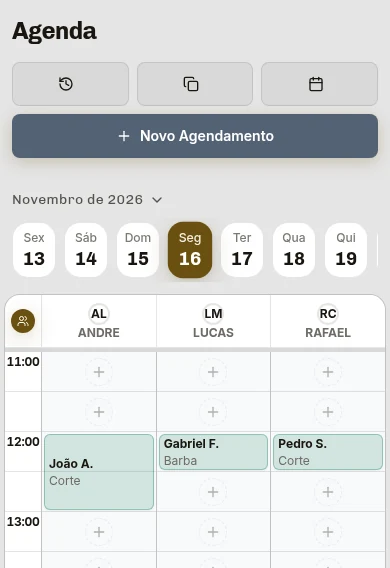
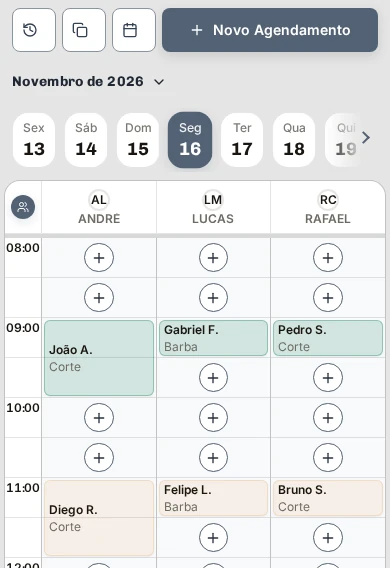
polimento visual r2: benefícios, casca da demo, hierarquia e contraste
A crítica independente ficou em landing 8/10 e demo 8,5/10, ainda abaixo do corte de publicação na landing. O PR permanece em rascunho.

diff --git a/styles/demo.css b/styles/demo.css
@@ -1,4 +1,15 @@
 .demo-shell { --demo-accent:#536174; min-height:100svh; background:var(--color-bg); color:var(--color-text); }
+html[data-theme=barber] .demo-shell {
+ --color-accent:#536174;
+ --color-accent-hover:#425064;
+ --color-accent-dim:rgba(83,97,116,.12);
+ --color-accent-border:rgba(83,97,116,.4);
+ --color-on-accent:#fff;
+ --color-input-focus:#536174;
+ --color-focus-ring:#536174;
+ --shadow-card-accent:0 3px 10px rgba(83,97,116,.16);
+ --shadow-btn-primary:0 4px 12px rgba(32,40,51,.14);
+}
 .demo-header { display:flex; align-items:center; gap:16px; padding:12px max(24px,calc((100vw - 1320px)/2)); border-bottom:1px solid var(--color-border); flex-wrap:wrap; }
 .demo-brand { font:900 27px Chivo,sans-serif; letter-spacing:-.04em; }
 .demo-badge { font-size:12px; border:1px solid var(--color-border); padding:5px 9px; border-radius:6px; }
@@ -12,8 +23,17 @@ html[data-mode=light] .demo-niches a[aria-current],html[data-mode=light] .demo-n
 .demo-toolbar span { display:block; color:var(--color-text-secondary); font-size:13px; margin-top:5px; }
 .demo-toolbar .demo-badge { display:inline-block; margin:4px 0 0; font-size:12px; line-height:1; }
 .demo-toolbar button,.demo-tour button { border:1px solid var(--color-border); }
-.demo-nav { display:flex; gap:4px; overflow-x:auto; max-width:1320px; margin:auto; padding:0 24px 16px; border-bottom:1px solid var(--color-border); }
-.demo-nav-wrap { position:relative; max-width:1320px; margin:auto; }
+.demo-nav { display:flex; min-width:0; flex:1; gap:4px; overflow-x:auto; max-width:1320px; margin:auto; padding:0 24px 16px; border-bottom:1px solid var(--color-border); }
+.demo-nav-wrap { position:relative; display:flex; align-items:flex-start; max-width:1320px; margin:auto; border-bottom:1px solid var(--color-border); }
+.demo-nav-wrap .demo-nav { border-bottom:0; }
+.demo-nav-wrap.has-overflow::after { content:""; position:absolute; right:44px; top:0; height:44px; width:40px; pointer-events:none; background:linear-gradient(to right,transparent,var(--color-bg)); }
+.demo-nav-wrap.at-end::after { display:none; }
+.demo-nav-scroll { flex:none; width:44px; height:44px; display:flex; align-items:center; justify-content:center; background:var(--color-card); border:1px solid var(--color-border); border-radius:8px; color:var(--demo-accent); }
+.demo-content [data-testid="agenda-day-scroller"]>div:last-child::before { content:""; position:absolute; right:0; top:0; bottom:0; width:52px; z-index:1; pointer-events:none; background:linear-gradient(to right,transparent 0%,var(--color-bg) 70%); }
+.demo-content [data-testid="agenda-day-scroller"]>div:last-child::after { content:""; position:absolute; right:10px; top:25px; width:9px; height:9px; border-top:2px solid var(--demo-accent); border-right:2px solid var(--demo-accent); transform:rotate(45deg); z-index:1; pointer-events:none; }
+.demo-content [data-testid="agenda-month-trigger"],.demo-content [data-testid="agenda-hoje-chip"] { min-height:44px; color:#202833; }
+.demo-content header:has(#btn-new-appointment) button:not(#btn-new-appointment) { color:#344154; border-color:#8a93a0; background:#fff; }
+.demo-content [data-agenda-slot] > button[aria-label^="Novo agendamento"] span { opacity:1; color:#2a3340; border-color:#536174; border-width:1.5px; border-style:solid; background:#fff; width:1.85rem; height:1.85rem; }
 .demo-nav a { white-space:nowrap; }
 .demo-content { max-width:1320px; margin:auto; padding:24px; }
 .demo-content [data-testid="agenda-resource-grid"] [data-agenda-slot]:not([data-off-hours]) { background:#f8f9fa; }
@@ -29,19 +49,25 @@ html[data-mode=light] .demo-niches a[aria-current],html[data-mode=light] .demo-n
 .demo-shell a:hover,.demo-shell button:hover { filter:brightness(.9); }
 .demo-shell :focus-visible { outline:2px solid var(--demo-accent); outline-offset:3px; }
 @media(max-width:640px) {
- .demo-header { gap:6px; padding:8px 12px; }
+ .demo-header { gap:6px; padding:6px 12px; }
  .demo-brand { font-size:21px; }
  .demo-niches { margin-left:auto; }
  .demo-niches a { padding:10px 7px; font-size:12px; }
  .demo-signup { padding:12px 8px; font-size:12px; white-space:nowrap; }
- .demo-toolbar { padding:12px 16px 8px; align-items:center; }
+ .demo-toolbar { padding:6px 12px; align-items:center; }
  .demo-toolbar strong { display:inline; font-size:16px; }
  .demo-toolbar .demo-badge { margin:0 0 0 6px; padding:3px 6px; }
  .demo-toolbar span { font-size:12px; margin-top:2px; }
  .demo-toolbar button { padding:8px 10px; font-size:12px; white-space:nowrap; }
- .demo-nav { padding:0 32px 8px 16px; }
- .demo-nav-wrap::after { content:""; position:absolute; right:0; top:0; bottom:9px; width:32px; pointer-events:none; background:linear-gradient(to right,transparent,var(--color-bg)); }
- .demo-content { padding:12px; }
+ .demo-nav { padding:0 12px 4px; }
+ .demo-content { padding:8px 12px; }
+ .demo-content[data-demo-screen=agenda]>div { gap:8px; }
+ .demo-content[data-demo-screen=agenda]>div>div:first-child { padding-top:0; }
+ .demo-content[data-demo-screen=agenda]>div>div:first-child>header { gap:0; padding-bottom:0; }
+ .demo-content[data-demo-screen=agenda]>div>div:first-child>header>div:first-child { position:absolute; width:1px; height:1px; padding:0; margin:-1px; overflow:hidden; clip-path:inset(50%); white-space:nowrap; }
+ .demo-content[data-demo-screen=agenda] header:has(#btn-new-appointment)>div:last-child>div { flex-wrap:nowrap; gap:6px; }
+ .demo-content[data-demo-screen=agenda] header:has(#btn-new-appointment) button:not(#btn-new-appointment) { flex:0 0 44px; width:44px; padding:0; }
+ .demo-content #btn-new-appointment { padding-inline:10px; }
  .demo-tour { margin:12px; flex-direction:column; align-items:flex-start; gap:12px; }
  .demo-tour-actions { flex-wrap:wrap; }
 }

diff --git a/pages/Landing.tsx b/pages/Landing.tsx
@@ -42,7 +42,7 @@ export const Landing = () => {
     setMenu(false);
     document.getElementById(id)?.scrollIntoView({ behavior: window.matchMedia('(prefers-reduced-motion: reduce)').matches ? 'instant' : 'smooth' });
   };
-  return <div className="landing">
+  return <div className={`landing${sticky ? " has-mobile-cta" : ""}`}>
     <a className="landing-skip" href="#landing-main" onClick={event => { event.preventDefault(); document.getElementById('landing-main')?.focus(); }}>Pular para o conteúdo</a>
     <header className="landing-nav">
       <div className="landing-wrap wrap landing-nav-row">
@@ -86,7 +86,7 @@ export const Landing = () => {
         <div className="landing-wrap wrap">
           <h2>Do primeiro horário<br />ao fechamento do caixa.</h2>
           {features.map((feature, index) => <article className={`landing-feature feature-${index}`} key={feature.title}><div className="landing-feature-copy"><h3>{feature.title}</h3><p>{feature.text}</p><a className="landing-text-link" href={`/#/demo/barber/${feature.route}`}>Explorar {index === 0 ? 'a agenda' : index === 1 ? 'o agendamento' : 'o financeiro'} <ArrowRight size={18} aria-hidden="true" /></a></div><div className="landing-feature-shot"><picture><source media="(max-width: 760px)" srcSet={`/landing/${feature.image}-mobile.webp`} /><img src={`/landing/${feature.image}-1440.webp`} alt={feature.alt} loading="lazy" width="1440" height="790" /></picture></div></article>)}
-          <div className="landing-team"><img src="/landing/craft-800.webp" srcSet="/landing/craft-800.webp 800w, /landing/craft-1600.webp 1600w" sizes="(max-width: 760px) 100vw, 45vw" loading="lazy" width="800" height="1000" alt="Profissional trabalhando no cabelo de uma cliente, em fotografia de banco" /><div><h3>Tempo, equipe<br />e trabalho valorizados.</h3><p>Acompanhe as comissões de cada profissional e o faturamento por hora de cadeira. Para quem chega sem marcar, organize a fila em uma tela própria.</p><div className="landing-operation-tabs" role="group" aria-label="Gestão da equipe"><button aria-pressed={operation === 'performance'} onClick={() => setOperation('performance')}>Hora de cadeira</button><button aria-pressed={operation === 'team'} onClick={() => setOperation('team')}>Equipe</button><button aria-pressed={operation === 'queue'} onClick={() => setOperation('queue')}>Fila</button></div><a className="landing-team-proof" href={`/#/demo/barber/${operation === 'performance' ? 'financeiro/performance' : operation === 'team' ? 'configuracoes/equipe' : 'fila'}`}><img src={`/landing/${operation}-1440.webp`} width="1440" height="790" loading="lazy" alt={`Tela real de ${operation === 'performance' ? 'hora de cadeira' : operation === 'team' ? 'equipe e comissões' : 'fila de espera'} do AgendiX, com dados fictícios`} /></a></div></div>
+          <div className="landing-team"><img src="/landing/craft-800.webp" srcSet="/landing/craft-800.webp 800w, /landing/craft-1600.webp 1600w" sizes="(max-width: 760px) 100vw, 45vw" loading="lazy" width="800" height="1000" alt="Profissional trabalhando no cabelo de uma cliente, em fotografia de banco" /><div><h3>Tempo, equipe<br />e trabalho valorizados.</h3><p>Acompanhe as comissões de cada profissional e o faturamento por hora de cadeira. Para quem chega sem marcar, organize a fila em uma tela própria.</p></div><div className="landing-team-operation"><div className="landing-operation-tabs" role="group" aria-label="Gestão da equipe"><button aria-pressed={operation === 'performance'} onClick={() => setOperation('performance')}>Hora de cadeira</button><button aria-pressed={operation === 'team'} onClick={() => setOperation('team')}>Equipe</button><button aria-pressed={operation === 'queue'} onClick={() => setOperation('queue')}>Fila</button></div><a className="landing-team-proof" href={`/#/demo/barber/${operation === 'performance' ? 'financeiro/performance' : operation === 'team' ? 'configuracoes/equipe' : 'fila'}`}><picture><source media="(max-width: 760px)" srcSet={`/landing/${operation}-mobile.webp`} /><img src={`/landing/${operation}-1440.webp`} width={operation === 'performance' ? 1142 : 1320} height={operation === 'performance' ? 524 : 682} loading="lazy" alt={`Tela real de ${operation === 'performance' ? 'hora de cadeira' : operation === 'team' ? 'equipe e comissões' : 'fila de espera'} do AgendiX, com dados fictícios`} /></picture></a></div></div>
         </div>
       </section>
       <section className="landing-close"><div className="landing-wrap wrap"><h2>O próximo capítulo<br />do seu negócio.</h2><div><p>Você já cuida do que faz bem.<br />Comece o período de teste e organize o resto.</p><a className="landing-button landing-button-light" href="/#/register">Crie sua conta grátis <ArrowRight size={18} aria-hidden="true" /></a></div></div></section>

diff --git a/styles/landing.css b/styles/landing.css
@@ -71,8 +71,8 @@ html[data-surface=marketing] { scroll-padding-top:88px; }
 .landing-feature-copy p { margin:0 0 20px; }
 .landing-feature-shot { height:385px; overflow:hidden; border-radius:8px; background:#f3f4f5; }
 .landing-feature-shot img { width:100%; height:auto; display:block; }
-.feature-1 .landing-feature-shot { background:#f0ece5; }
-.landing-team { display:grid; grid-template-columns:5fr 6fr; gap:100px; align-items:center; padding-top:72px; border-top:1px solid var(--lp-rule); margin-top:16px; }
+.feature-1 .landing-feature-shot { background:#f3f4f5; height:auto; }
+.landing-team { display:grid; grid-template-columns:5fr 6fr; column-gap:100px; row-gap:32px; align-items:center; padding-top:72px; border-top:1px solid var(--lp-rule); margin-top:16px; }
 .landing-team>img { width:100%; height:500px; object-fit:cover; object-position:60%; }
 .landing-team h3 { margin:0 0 24px; font-size:clamp(32px,3.4vw,49px); }
 .landing-team p { margin:0 0 20px; }
@@ -80,7 +80,7 @@ html[data-surface=marketing] { scroll-padding-top:88px; }
 .landing-feature-rows a:hover { color:#536174; padding-left:6px; transition:padding .2s; }
 .landing-close { background:#536174; color:#fff; padding:84px 0; }
 .landing-close>.landing-wrap { display:grid; grid-template-columns:1.4fr 1fr; gap:80px; align-items:center; }
-.landing-close h2 { margin:0; font-size:clamp(32px,3.4vw,49px); }
+.landing-close h2 { margin:0; font-size:clamp(26px,2.6vw,36px); font-weight:600; letter-spacing:-.02em; }
 .landing-close p { color:#fff; margin:0 0 24px; }
 .landing-button-light { background:#fff; color:#344154!important; }
 .landing-button-light:hover { background:#e7eaee; }
@@ -162,17 +162,19 @@ html[data-surface=marketing] { scroll-padding-top:88px; }
  .landing-footer-top>a:last-child { margin-left:0; }
  .landing-footer-bottom { flex-wrap:wrap; column-gap:20px; row-gap:0; }
  .landing-footer-bottom>span:first-child,.landing-footer-bottom>span:last-child { width:100%; margin:0; }
- .landing-mobile-cta { display:block; position:fixed; bottom:0; left:0; width:100%; background:#fff; border-top:1px solid var(--lp-rule); padding:12px 20px max(12px,env(safe-area-inset-bottom)); z-index:20; transform:translateY(120%); visibility:hidden; transition:transform .2s,visibility .2s; }
+ .landing-mobile-cta { display:block; position:fixed; top:72px; left:0; width:100%; background:#fff; border-bottom:1px solid var(--lp-rule); padding:10px 20px; z-index:20; transform:translateY(-120%); visibility:hidden; transition:transform .2s,visibility .2s; }
+ .landing.has-mobile-cta { scroll-padding-top:136px; }
+ .landing.has-mobile-cta .landing-features,.landing.has-mobile-cta .landing-story,.landing.has-mobile-cta .landing-demo,.landing.has-mobile-cta .landing-feature,.landing.has-mobile-cta .landing-team,.landing.has-mobile-cta .landing-team-operation { scroll-margin-top:136px; }
  .landing-mobile-cta.is-visible { transform:translateY(0); visibility:visible; }
- .landing-mobile-cta .landing-button { width:100%; }
+ .landing-mobile-cta .landing-button { width:100%; min-height:48px; }
 }
 @media(prefers-reduced-motion:reduce) { .landing * { animation:none!important; transition:none!important; scroll-behavior:auto!important; } }
 .landing-operation-tabs { display:flex; gap:16px; border-bottom:1px solid var(--lp-rule); margin:24px 0 20px; }
 .landing-operation-tabs button { font-size:13px; padding:10px 0; min-height:44px; border:0; border-bottom:2px solid transparent; background:none; color:var(--lp-muted); }
 .landing-operation-tabs button[aria-pressed=true] { border-color:#536174; color:var(--lp-ink); font-weight:600; }
-.landing-team-proof { display:block; height:240px; overflow:hidden; border-radius:6px; background:#f3f4f5; }
-.landing-team-proof img { width:100%; display:block; }
-@media(max-width:760px) { .landing-team-proof { height:230px; } .landing-team-proof img { min-width:560px; } }
+.landing-team-operation { grid-column:1 / -1; }
+.landing-team-proof { display:block; height:auto; overflow:hidden; border-radius:6px; background:#f3f4f5; }
+.landing-team-proof img { width:100%; height:auto; display:block; }
 .landing-team>div { min-width:0; width:100%; }
 @media(min-width:1201px) { .landing-hero-head { grid-template-columns:1.75fr 1fr; gap:52px; } }
 @media(max-width:760px) { .landing-team { align-items:stretch; } .landing-operation-tabs { gap:14px; } }

diff --git a/pages/Demo.tsx b/pages/Demo.tsx
@@ -1,4 +1,4 @@
-import { DemoNavigation } from '../components/DemoNavigation';
+import { DemoNavigation, DemoScreenNavigation } from '../components/DemoNavigation';
 import React, { lazy, Suspense, useEffect, useState } from 'react';
 import { Link, Route, Routes, useLocation, useNavigate } from 'react-router-dom';
 import { QueryClient, QueryClientProvider } from '@tanstack/react-query';
@@ -58,12 +58,12 @@ export const Demo = () => {
         <div><strong>{niche === 'beauty' ? 'Studio Aurora' : 'Barbearia Corte Fino'}</strong><span className="demo-badge">Simulação</span><span>Dados fictícios · reinicia ao recarregar</span></div>
         <button onClick={() => goTour(0)}>Fazer tour guiado</button>
       </div>
-      <div className="demo-nav-wrap"><nav className="demo-nav" aria-label="Telas da simulação">{screens.map(screen => <Link key={screen.path} to={`${base}/${screen.path}`} aria-current={location.pathname === `${base}/${screen.path}` ? 'page' : undefined}>{screen.label}</Link>)}</nav></div>
+      <DemoScreenNavigation locationKey={location.pathname}>{screens.map(screen => <Link key={screen.path} to={`${base}/${screen.path}`} aria-current={location.pathname === `${base}/${screen.path}` ? 'page' : undefined}>{screen.label}</Link>)}</DemoScreenNavigation>
       {tour !== null && <aside className="demo-tour" aria-label="Tour guiado" aria-live="polite">
         <div><span>Passo {tour + 1} de {screens.length}</span><h2>{screens[tour].title}</h2><p>{screens[tour].text}</p></div>
         <div className="demo-tour-actions">{tour > 0 && <button onClick={() => goTour(tour - 1)}>Anterior</button>}<button onClick={() => tour < screens.length - 1 ? goTour(tour + 1) : setTour(null)}>{tour < screens.length - 1 ? 'Próximo passo' : 'Concluir tour'}</button><button onClick={() => setTour(null)}>Fechar tour</button></div>
       </aside>}
-      <DemoNavigation><main className="demo-content" key={niche} onClickCapture={event => {
+      <DemoNavigation><main className="demo-content" data-demo-screen={screens.find(screen => location.pathname === `${base}/${screen.path}`)?.path ?? 'agenda'} key={niche} onClickCapture={event => {
         const anchor = (event.target as HTMLElement).closest('a');
         if (anchor && /wa\.me|whatsapp|mailto:/.test(anchor.href)) { event.preventDefault(); event.stopPropagation(); }
       }}>

diff --git a/components/DemoNavigation.tsx b/components/DemoNavigation.tsx
@@ -1,5 +1,6 @@
-import React, { useContext, useMemo } from 'react';
+import React, { useContext, useMemo, useEffect, useRef, useState } from 'react';
 import { UNSAFE_NavigationContext, type To } from 'react-router-dom';
+import { ChevronLeft, ChevronRight } from 'lucide-react';
 import { demoPath, getDemoNiche } from '../lib/demo/mode';
 
 export const DemoNavigation = ({ children }: { children: React.ReactNode }) => {
@@ -16,4 +17,30 @@ export const DemoNavigation = ({ children }: { children: React.ReactNode }) => {
     } };
   }, [navigation, niche]);
   return <UNSAFE_NavigationContext.Provider value={value}>{children}</UNSAFE_NavigationContext.Provider>;
+};
+
+export const DemoScreenNavigation = ({ children, locationKey }: { children: React.ReactNode; locationKey: string }) => {
+  const navRef = useRef<HTMLElement>(null);
+  const [overflow, setOverflow] = useState(false);
+  const [atEnd, setAtEnd] = useState(false);
+  useEffect(() => {
+    const nav = navRef.current;
+    if (!nav) return;
+    const update = () => {
+      setOverflow(nav.scrollWidth > nav.clientWidth + 2);
+      setAtEnd(nav.scrollLeft + nav.clientWidth >= nav.scrollWidth - 2);
+    };
+    const observer = new ResizeObserver(update);
+    observer.observe(nav);
+    nav.addEventListener('scroll', update, { passive: true });
+    update();
+    return () => { observer.disconnect(); nav.removeEventListener('scroll', update); };
+  }, [locationKey]);
+  return <div className={`demo-nav-wrap${overflow ? ' has-overflow' : ''}${atEnd ? ' at-end' : ''}`}>
+    <nav id="demo-screens" ref={navRef} className="demo-nav" aria-label="Telas da simulação">{children}</nav>
+    {overflow && <button className="demo-nav-scroll" aria-label={atEnd ? 'Ver telas anteriores' : 'Ver mais telas'} aria-controls="demo-screens" onClick={() => {
+      const nav = navRef.current;
+      if (nav) nav.scrollTo({ left: atEnd ? 0 : nav.scrollWidth, behavior: matchMedia('(prefers-reduced-motion: reduce)').matches ? 'instant' : 'smooth' });
+    }}>{atEnd ? <ChevronLeft size={20} aria-hidden="true" /> : <ChevronRight size={20} aria-hidden="true" />}</button>}
+  </div>;
 };

diff --git a/e2e/site-v2/site.spec.ts b/e2e/site-v2/site.spec.ts
@@ -32,6 +32,23 @@ for (const width of [1440, 390]) {
     await expect(page.locator('html')).toHaveAttribute('data-theme', 'barber');
     await expect(page.getByRole('heading', { name: /Agenda/i }).first()).toBeVisible();
     await expect(page.getByRole('button', { name: /Pedro Souza —/ }).first()).toBeVisible();
+    const selectedDay = page.getByTestId('agenda-day-selected');
+    await expect(selectedDay).toHaveCSS('background-color', 'rgb(83, 97, 116)');
+    if (width === 390) {
+      const grid = await page.getByTestId('agenda-grid-root').boundingBox();
+      expect(grid?.y, 'A grade deve começar antes de 390px').toBeLessThan(390);
+      const moreScreens = page.getByRole('button', { name: 'Ver mais telas' });
+      await expect(moreScreens).toBeVisible();
+      await moreScreens.click();
+      await expect(page.getByRole('link', { name: 'Equipe', exact: true })).toBeInViewport();
+      await page.getByRole('button', { name: 'Ver telas anteriores' }).click();
+      await expect(page.getByRole('link', { name: 'Agenda', exact: true })).toBeInViewport();
+      for (const control of [page.getByRole('button', { name: 'Histórico', exact: true }), page.getByTestId('agenda-public-link'), page.getByRole('button', { name: 'Todos os agendamentos', exact: true }), page.locator('#btn-new-appointment'), page.getByTestId('agenda-month-trigger')]) {
+        const box = await control.boundingBox();
+        expect(box?.height).toBeGreaterThanOrEqual(44);
+        expect(box?.width).toBeGreaterThanOrEqual(44);
+      }
+    }
     await page.getByRole('button', { name: /Novo Agendamento/i }).first().click();
     await expect(page.getByRole('dialog').first()).toBeVisible();
     await page.getByTestId('agenda-choice-new-appointment').click();

diff --git a/docs/site-v2.md b/docs/site-v2.md
@@ -32,7 +32,7 @@ Nenhuma migration ou alteração no fluxo real de cadastro/login/autenticação.
 
 ## Situação visual
 
-Revisão independente: landing 7,5/10; demo 8/10. Ambas **reprovadas para publicação** pelo corte >8. O lote único de correções foi consumido. Permanecem recortes mobile pouco legíveis, captura instável de serviços e casca da demo alta no celular. Taste Gate: `FAIL 34`; sem aprovação declarada. Detalhamento em `/workspace/artifacts/site-v2/CRITIQUE.md` no ambiente da tarefa. O PR deve permanecer em rascunho.
+Após o polimento r2/r3 de 16/11/2026, a crítica independente atribuiu **landing 8/10** e **demo 8,5/10**. A landing permanece **reprovada para publicação** pelo corte >8; as três rodadas foram consumidas. Pendências: legendas menores do Financeiro em 390px e verificação do CTA fixo mobile em mais posições de rolagem. Taste Gate histórico: `FAIL 34`; sem aprovação declarada. Detalhamento em `/workspace/artifacts/site-v2/CRITIQUE.md`. O PR deve permanecer em rascunho.
 
 O executável `graphify` não está instalado neste ambiente: `graphify update .` retornou `command not found`. O grafo não foi atualizado.
 
@@ -49,4 +49,8 @@ O GitHub recusou a alteração do workflow por falta do escopo OAuth `workflow`.
 
 A demo força `data-mode="light"` para os dois nichos e mantém `data-theme` de cada um. A barbearia usa os tokens reais de modo claro do app; o salão usa os seus tokens reais claros. A casca usa #536174 na navegação, sem modificar `design-system/tokens.css`. O booking público da demo conserva o modo claro e não oferece troca para escuro. Fora da demo, o modo e o botão de troca do agendamento público continuam com o comportamento original.
 
-Hero, pôsteres, imagens de agenda, booking, financeiro, equipe, fila, performance e OG foram recapturados da UI real em modo claro. As capturas são dados fictícios e não representam clientes reais. Avaliação visual da rodada: landing 8/10 e demo 8/10, reprovadas para o corte >8. Persistem recorte lateral do pôster mobile, legibilidade dos prints dos benefícios em celular e altura da casca da demo antes da grade.
+Hero, pôsteres, imagens de agenda, booking, financeiro, equipe, fila, performance e OG foram recapturados da UI real em modo claro, e de novo após o polimento r2/r3. As capturas são dados fictícios e não representam clientes reais.
+
+## Polimento visual r2/r3 — 16 Nov 2026
+
+Três rodadas: r1 já em `e64fb371`; r2 com recortes, pista de rolagem, casca mais baixa e acento ardósia só na demo; r3 com hierarquia do fechamento, contraste dos “+” e CTA mobile abaixo do menu. Crítica independente final: landing 8/10, demo 8,5/10. A landing não superou o corte. Sem merge nem publicação.

diff --git a/public/landing/ASSETS.md b/public/landing/ASSETS.md
@@ -42,3 +42,9 @@ Troca pelas fotos reais: substituir os arquivos em `public/landing/` mantendo os
 ## Rodada de tema claro
 
 As imagens de `agenda`, `beauty`, `hero-agenda`, `booking`, `finance`, `performance`, `queue` e `team` foram recapturadas em modo claro usando os tokens reais dos dois temas. A imagem OG foi atualizada a partir da agenda clara. As imagens de produto preservam textos, estados e dados fictícios da UI; o recorte do pôster mobile ainda precisa de revisão visual.
+
+## Polimento r2 — 16/11/2026
+
+Recaptura local das sete telas da demo clara em 390 e 1440px; acentos da barbearia usam azul ardósia apenas na demo. O agendamento mostra a primeira linha de serviços completa (nome, preço e duração). A performance enquadra título, filtros e a visão principal de hora de cadeira até a ocupação; o mobile vem da UI responsiva com o botão Filtrar. Capturas sem alterações nos dados fictícios.
+
+Fontes PNG, provas e script reproduzível: `/workspace/artifacts/site-v2/polish-r2/`. Avaliação independente pendente; esta rodada não atribui nota nem autoriza publicação.
